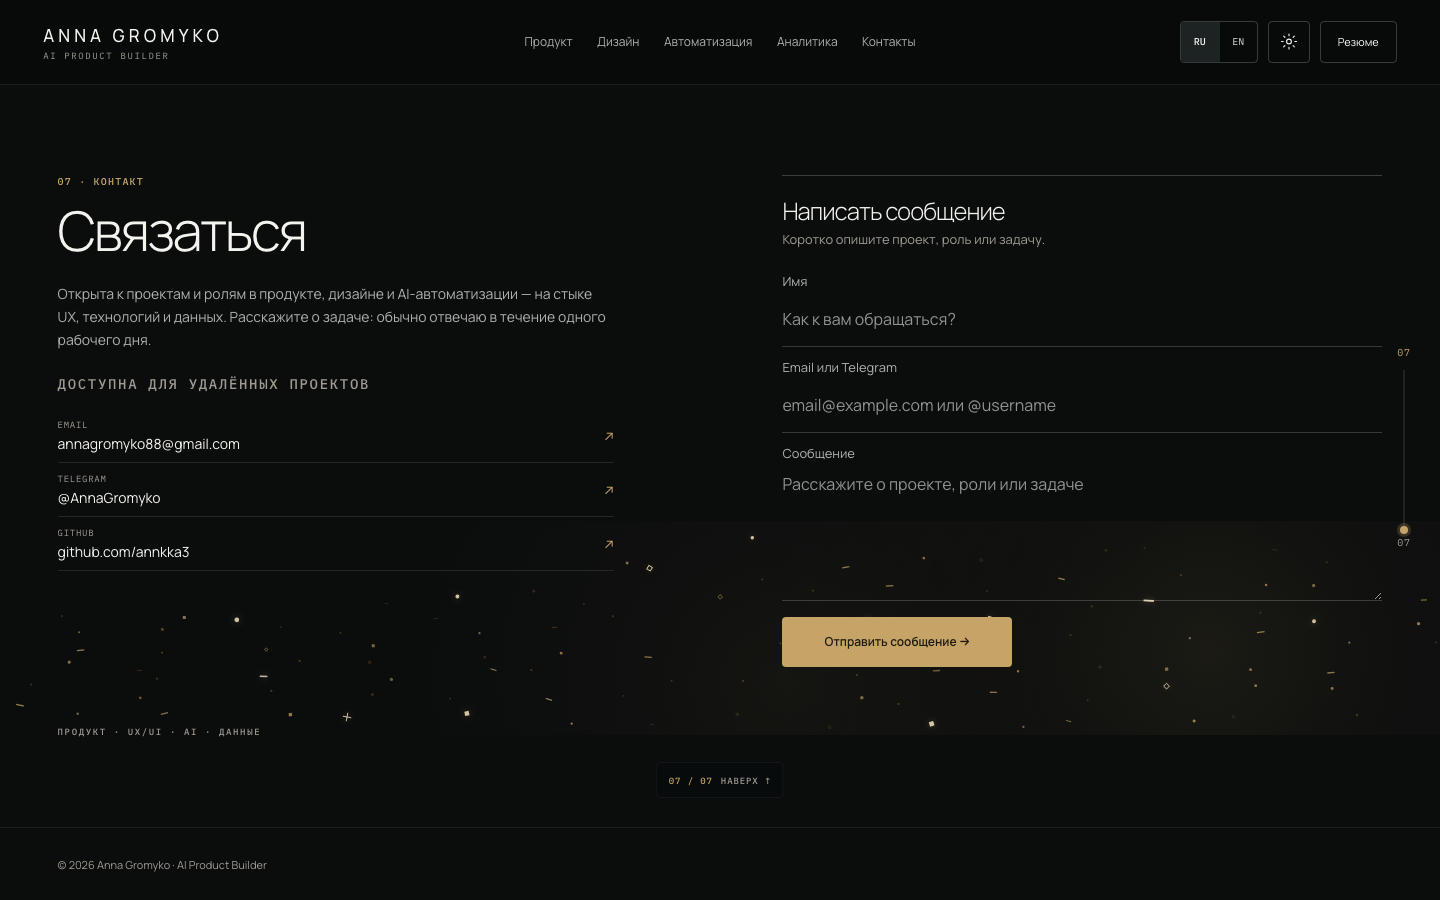
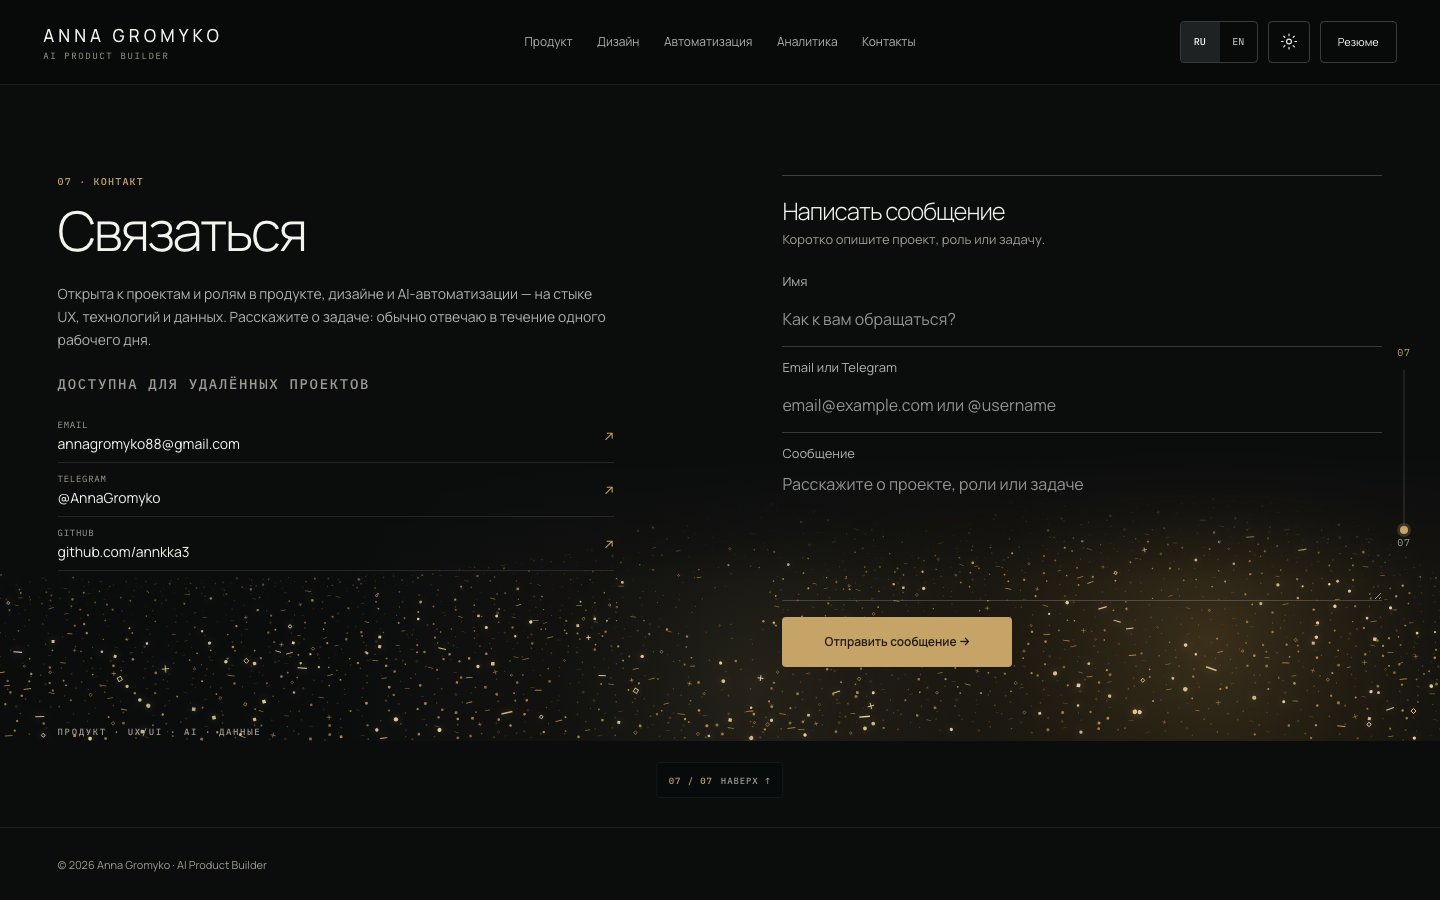
fix(contact): densify kinetic signal tide

Changed region(s): [[0.75, 0.6222, 0.9375, 0.84]]

diff --git a/src/sections/Contact/ContactSignalTideField.tsx b/src/sections/Contact/ContactSignalTideField.tsx
@@ -10,6 +10,7 @@ type TideParticle = {
   id: number
   anchorX: number
   anchorY: number
+  fade: number
   x: number
   y: number
   velocityX: number
@@ -30,50 +31,54 @@ const hash = (value: number) => {
 }
 
 function getParticleCount(viewportWidth: number, mobile: boolean) {
-  if (mobile || viewportWidth <= 767) return 28
-  if (viewportWidth <= 1279) return 58
-  if (viewportWidth >= 1680) return 110
-  return 108
+  if (mobile || viewportWidth <= 767) return 220
+  if (viewportWidth <= 1279) return 1300
+  if (viewportWidth >= 1680) return 3200
+  return 2800
 }
 
 function getShape(index: number): Shape {
   const slot = (index * 37) % 100
-  if (slot < 40) return 'dot'
-  if (slot < 65) return 'square'
-  if (slot < 87) return 'dash'
-  if (slot < 95) return 'diamond'
+  if (slot < 48) return 'dot'
+  if (slot < 72) return 'square'
+  if (slot < 88) return 'dash'
+  if (slot < 96) return 'diamond'
   return 'plus'
 }
 
 function createTide(width: number, height: number, viewportWidth: number, mobile: boolean) {
   const count = getParticleCount(viewportWidth, mobile)
-  const rowCount = mobile ? 4 : viewportWidth <= 1279 ? 6 : 7
+  const rowCount = mobile ? 12 : viewportWidth <= 1279 ? 22 : 34
   const columnCount = Math.ceil(count / rowCount)
   return Array.from({ length: count }, (_, index): TideParticle => {
     const row = index % rowCount
     const column = Math.floor(index / rowCount)
-    const distribution = (column + .18 + hash(index + 11) * .64) / columnCount
-    const normalizedX = .018 + Math.pow(distribution, .88) * .964
-    const centerRise = Math.exp(-Math.pow((normalizedX - .52) / .18, 2)) * .16
-    const rightRise = Math.exp(-Math.pow((normalizedX - .82) / .17, 2)) * .31
-    const rightFall = Math.exp(-Math.pow((normalizedX - 1) / .075, 2)) * .13
-    const topContour = Math.max(.045, .37 - centerRise - rightRise + rightFall)
+    const distribution = (column + .08 + hash(index + 11) * .84) / columnCount
+    const normalizedX = .004 + Math.pow(distribution, .92) * .992
+    const centerRise = Math.exp(-Math.pow((normalizedX - .54) / .2, 2)) * .13
+    const rightRise = Math.exp(-Math.pow((normalizedX - .83) / .18, 2)) * .28
+    const rightFall = Math.exp(-Math.pow((normalizedX - 1) / .08, 2)) * .12
+    const topContour = Math.max(.06, .46 - centerRise - rightRise + rightFall)
     const depthSample = hash(index + 29)
-    const depth: Depth = depthSample < .5 ? 'background' : depthSample < .88 ? 'middle' : 'foreground'
-    const vertical = (row + .18 + hash(index + 47) * .56) / rowCount
-    const rowWave = Math.sin(normalizedX * Math.PI * 2.2 + row * .58) * .022
+    const depth: Depth = depthSample < .58 ? 'background' : depthSample < .92 ? 'middle' : 'foreground'
+    const vertical = (row + .12 + hash(index + 47) * .7) / rowCount
+    const perspective = Math.pow(vertical, 1.34)
+    const rowWave = Math.sin(normalizedX * Math.PI * 2.35 + row * .38) * .014
     const anchorX = normalizedX * width
-    const anchorY = Math.min(.99, topContour + vertical * (.985 - topContour) + rowWave) * height
-    const size = depth === 'background' ? .76 + hash(index + 61) * .46
-      : depth === 'middle' ? 1.02 + hash(index + 67) * .68
-        : 1.58 + hash(index + 71) * .9
-    const opacity = depth === 'background' ? .24 + hash(index + 79) * .14
-      : depth === 'middle' ? .46 + hash(index + 83) * .22
-        : .78 + hash(index + 89) * .16
+    const anchorY = Math.min(.995, topContour + perspective * (.992 - topContour) + rowWave) * height
+    const topFade = Math.min(1, Math.max(0, (anchorY / height - topContour + .02) / .2))
+    const lowerWeight = .54 + Math.pow(vertical, .95) * .58
+    const size = (depth === 'background' ? .5 + hash(index + 61) * .44
+      : depth === 'middle' ? .82 + hash(index + 67) * .68
+        : 1.22 + hash(index + 71) * .98) * lowerWeight
+    const opacity = (depth === 'background' ? .3 + hash(index + 79) * .2
+      : depth === 'middle' ? .54 + hash(index + 83) * .28
+        : .78 + hash(index + 89) * .18) * (.2 + topFade * .8)
     return {
       id: index,
       anchorX,
       anchorY,
+      fade: topFade,
       x: anchorX,
       y: anchorY,
       velocityX: 0,
@@ -148,16 +153,16 @@ export function ContactSignalTideField({ activeField, signalState, mobile }: { a
     }
 
     const drawGlow = () => {
-      const center = context.createRadialGradient(width * .54, height * .76, 0, width * .54, height * .76, Math.min(380, width * .25))
-      center.addColorStop(0, 'rgba(212,179,110,.052)')
-      center.addColorStop(.48, 'rgba(155,121,66,.018)')
+      const center = context.createRadialGradient(width * .52, height * .82, 0, width * .52, height * .82, Math.min(420, width * .28))
+      center.addColorStop(0, 'rgba(212,179,110,.12)')
+      center.addColorStop(.48, 'rgba(155,121,66,.042)')
       center.addColorStop(1, 'rgba(155,121,66,0)')
       context.fillStyle = center
       context.fillRect(0, 0, width, height)
 
-      const outcome = context.createRadialGradient(width * .82, height * .6, 0, width * .82, height * .6, Math.min(450, width * .3))
-      outcome.addColorStop(0, 'rgba(212,179,110,.082)')
-      outcome.addColorStop(.46, 'rgba(155,121,66,.026)')
+      const outcome = context.createRadialGradient(width * .82, height * .68, 0, width * .82, height * .68, Math.min(520, width * .34))
+      outcome.addColorStop(0, 'rgba(226,171,74,.22)')
+      outcome.addColorStop(.44, 'rgba(171,120,44,.072)')
       outcome.addColorStop(1, 'rgba(155,121,66,0)')
       context.fillStyle = outcome
       context.fillRect(0, 0, width, height)
@@ -171,8 +176,9 @@ export function ContactSignalTideField({ activeField, signalState, mobile }: { a
       const pointerDistance = pointer.active ? Math.hypot(particle.x - pointer.x, particle.y - pointer.y) : Infinity
       const localWake = Math.max(0, 1 - pointerDistance / 170)
       const breath = reducedMotion ? 0 : Math.sin(time * .00072 * particle.speed + particle.phase) * .025
-      const alpha = Math.min(1, particle.opacity + breath + (ctaBoost ? .1 : 0) + (successBoost ? .08 : 0) + localWake * .035)
-      const color = particle.depth === 'foreground' ? '231,216,181' : particle.depth === 'middle' ? '212,179,110' : '155,121,66'
+      const edgeFade = Math.min(1, Math.max(0, (particle.y / height - .12) / .25))
+      const alpha = Math.min(1, (particle.opacity + breath + (ctaBoost ? .1 : 0) + (successBoost ? .08 : 0) + localWake * .035) * edgeFade)
+      const color = particle.depth === 'foreground' ? '241,215,158' : particle.depth === 'middle' ? '219,166,78' : '172,126,58'
       context.save()
       context.translate(particle.x, particle.y)
       context.rotate(particle.rotation)
@@ -181,20 +187,22 @@ export function ContactSignalTideField({ activeField, signalState, mobile }: { a
       context.strokeStyle = `rgb(${color})`
       context.lineWidth = particle.depth === 'foreground' ? .9 : .65
       if (particle.depth === 'foreground') {
-        context.shadowColor = 'rgba(212,179,110,.34)'
-        context.shadowBlur = 6
+        context.shadowColor = 'rgba(212,179,110,.42)'
+        context.shadowBlur = 7
       }
       if (particle.shape === 'dot') {
         context.beginPath()
         context.arc(0, 0, particle.size, 0, Math.PI * 2)
         context.fill()
       } else if (particle.shape === 'square') {
-        context.fillRect(-particle.size, -particle.size, particle.size * 2, particle.size * 2)
+        const side = particle.size * 1.72
+        context.fillRect(-side * .5, -side * .5, side, side)
       } else if (particle.shape === 'dash') {
-        context.fillRect(-particle.size * 2.3, -particle.size * .42, particle.size * 4.6, particle.size * .84)
+        context.fillRect(-particle.size * 2.6, -particle.size * .34, particle.size * 5.2, particle.size * .68)
       } else if (particle.shape === 'diamond') {
         context.rotate(Math.PI * .25)
-        context.strokeRect(-particle.size, -particle.size, particle.size * 2, particle.size * 2)
+        const side = particle.size * 1.84
+        context.strokeRect(-side * .5, -side * .5, side, side)
       } else {
         context.beginPath()
         context.moveTo(-particle.size * 1.8, 0)

diff --git a/src/styles/components.css b/src/styles/components.css
@@ -159,7 +159,7 @@
 .contact-section{border-top:1px solid var(--border-soft)}.contact-content{width:100%}.contact-grid{display:grid;grid-template-columns:5fr 6fr;gap:clamp(56px,7vw,112px);align-items:start}.contact-eyebrow{display:block;margin-bottom:14px;color:var(--gold);font:500 10px var(--font-mono);letter-spacing:.12em}.contact-display-heading{font-family:var(--font-display);font-weight:var(--display-weight);line-height:var(--display-line-height);letter-spacing:var(--display-tracking)}.contact-copy h2{margin-bottom:20px}.contact-copy>p:not(.contact-availability){max-width:620px;margin:0;color:var(--text-soft);font-size:15px;line-height:1.65}.contact-availability{margin:24px 0 0;color:var(--text-muted);font:500 9px var(--font-mono);letter-spacing:.12em}.contact-links{display:flex;flex-direction:column;margin-top:18px}.contact-links a{min-height:54px;padding:10px 0;border-bottom:1px solid var(--border);display:flex;align-items:center;justify-content:space-between;gap:20px;font-size:15px;transition:border-color 220ms,color 220ms}.contact-links a:hover,.contact-links a:focus-visible{border-color:var(--border-strong)}.contact-link-copy{min-width:0}.contact-links .contact-link-copy>span{display:block;margin-bottom:4px;color:var(--text-muted);font:400 9px var(--font-mono);letter-spacing:.08em}.contact-link-copy strong{display:block;overflow-wrap:anywhere;font-size:14px;font-weight:400}.contact-links i{flex:0 0 auto;color:var(--gold);font-style:normal;transform:translateX(0);transition:transform 220ms}.contact-links a:hover i,.contact-links a:focus-visible i{transform:translateX(4px)}.contact-form{position:relative;isolation:isolate;width:100%;max-width:640px;justify-self:end;padding:clamp(26px,3.5vw,46px);background:var(--form-panel);border:1px solid var(--border);border-radius:12px;box-shadow:var(--card-shadow)}.contact-form-body{position:relative;z-index:1}.contact-form h3{margin:0 0 7px;font-size:24px}.contact-form-body>p{margin:0 0 24px;color:var(--text-muted);font-size:13px}.contact-form-helper{display:block;margin-bottom:9px;color:var(--gold);font:500 9px/1 var(--font-mono);letter-spacing:.16em}.form-field{position:relative;margin-bottom:15px}.form-field label{display:block;margin-bottom:3px;color:var(--text-soft);font-size:13px}.form-field input,.form-field textarea{width:100%;min-height:54px;padding:10px 0;border:0;border-bottom:1px solid var(--input-border);border-radius:0;background:transparent;color:var(--text);font-size:16px;resize:vertical;transition:border-color 220ms ease,box-shadow 260ms ease}.form-field input:focus,.form-field textarea:focus{outline:none;border-color:var(--gold);box-shadow:0 1px 0 var(--gold),0 8px 18px -14px color-mix(in srgb,var(--gold) 58%,transparent)}.form-field input::placeholder,.form-field textarea::placeholder{color:var(--placeholder);opacity:1}.form-field small{display:block;margin-top:6px;color:#ee8a82;font-size:11px}.submit-button{position:relative;height:50px;min-width:230px;padding:0 24px;border:0;border-radius:4px;background:var(--gold);color:#211b12;font-size:12px;font-weight:600;transition:filter var(--duration-fast),background var(--duration-fast),transform 280ms var(--ease-premium),box-shadow 320ms ease}.submit-button:hover,.submit-button:focus-visible{filter:brightness(1.07);transform:translateY(-1px);box-shadow:0 10px 26px -14px color-mix(in srgb,var(--gold) 70%,transparent)}.submit-button:disabled{cursor:wait;filter:saturate(.35);opacity:.55;transform:none}.form-status{min-height:20px;margin:12px 0 0!important;font-size:12px!important}.form-status.error,.form-status.config{color:#ee8a82}.form-status.success{color:var(--teal)}.contact-closing{margin-top:clamp(22px,3vh,34px);color:var(--text-muted);font:500 9px var(--font-mono);letter-spacing:.18em}.honeypot{position:absolute;left:-10000px;width:1px;height:1px;overflow:hidden}
 .contact-grid{position:relative;isolation:isolate}
 .contact-grid>.contact-copy,.contact-grid>.contact-form{position:relative;z-index:1}
-.contact-signal-field{position:absolute;z-index:0;left:-3%;right:-3%;bottom:-7%;height:clamp(178px,29vh,214px);overflow:hidden;pointer-events:none;opacity:1;transition:opacity 360ms ease}
+.contact-signal-field{position:absolute;z-index:0;left:-3%;right:-3%;bottom:-8%;height:clamp(238px,34vh,318px);overflow:hidden;pointer-events:none;opacity:1;transition:opacity 360ms ease;mask-image:linear-gradient(180deg,transparent 0%,rgba(0,0,0,.04) 8%,rgba(0,0,0,.38) 24%,#000 48%);-webkit-mask-image:linear-gradient(180deg,transparent 0%,rgba(0,0,0,.04) 8%,rgba(0,0,0,.38) 24%,#000 48%)}
 .contact-tide-canvas{display:block;width:100%;height:100%}
 .contact-form>p{margin:0 0 24px;color:var(--text-muted);font-size:13px}
 .contact-grid:has(.contact-form[data-signal-state='submit-hover']) .contact-signal-field,.contact-grid:has(.contact-form[data-signal-state='loading']) .contact-signal-field{opacity:1}

diff --git a/e2e/portfolio.spec.ts b/e2e/portfolio.spec.ts
@@ -318,8 +318,8 @@ test('Contact kinetic signal tide stays below content, responds to pointer and p
   await expect(canvas).toBeVisible()
   await expect(field).toHaveAttribute('data-renderer', 'kinetic-signal-tide')
   await expect(canvas).toHaveAttribute('data-motion', 'physics')
-  expect(Number(await canvas.getAttribute('data-particle-count'))).toBeGreaterThanOrEqual(80)
-  expect(Number(await canvas.getAttribute('data-particle-count'))).toBeLessThanOrEqual(110)
+  expect(Number(await canvas.getAttribute('data-particle-count'))).toBeGreaterThanOrEqual(2700)
+  expect(Number(await canvas.getAttribute('data-particle-count'))).toBeLessThanOrEqual(2900)
   expect(await canvas.getAttribute('data-shapes')).toContain('dot:')
   expect(await canvas.getAttribute('data-shapes')).toContain('plus:')
   expect(await canvas.getAttribute('data-depths')).toContain('foreground:')
@@ -330,7 +330,7 @@ test('Contact kinetic signal tide stays below content, responds to pointer and p
     return {
       left: fieldBounds.left <= gridBounds.left,
       right: fieldBounds.right >= gridBounds.right,
-      lowerBand: fieldBounds.top > gridBounds.top + gridBounds.height * .55,
+      lowerBand: fieldBounds.top > gridBounds.top + gridBounds.height * .42,
       bottom: fieldBounds.bottom >= gridBounds.bottom - 50,
       height: fieldBounds.height,
       pointerEvents: getComputedStyle(element.querySelector<HTMLElement>('.contact-signal-field')!).pointerEvents,
@@ -340,8 +340,8 @@ test('Contact kinetic signal tide stays below content, responds to pointer and p
   expect(coverage.right).toBe(true)
   expect(coverage.lowerBand).toBe(true)
   expect(coverage.bottom).toBe(true)
-  expect(coverage.height).toBeGreaterThanOrEqual(170)
-  expect(coverage.height).toBeLessThanOrEqual(220)
+  expect(coverage.height).toBeGreaterThanOrEqual(230)
+  expect(coverage.height).toBeLessThanOrEqual(330)
   expect(coverage.pointerEvents).toBe('none')
   const bounds = await field.boundingBox()
   expect(bounds).not.toBeNull()
@@ -371,9 +371,9 @@ test('Contact kinetic signal tide uses a simplified mobile composition and does 
   const grid = page.locator('.mobile-contact-chapter .contact-grid')
   const canvas = grid.locator('.contact-tide-canvas')
   await expect(canvas).toBeVisible()
-  await expect(canvas).toHaveAttribute('data-particle-count', '28')
-  expect(Number(await canvas.getAttribute('data-field-height'))).toBeGreaterThanOrEqual(90)
-  expect(Number(await canvas.getAttribute('data-field-height'))).toBeLessThanOrEqual(130)
+  await expect(canvas).toHaveAttribute('data-particle-count', '220')
+  expect(Number(await canvas.getAttribute('data-field-height'))).toBeGreaterThanOrEqual(130)
+  expect(Number(await canvas.getAttribute('data-field-height'))).toBeLessThanOrEqual(170)
   await expect(canvas).toHaveAttribute('data-pointer-active', 'false')
   await expect(grid.locator('.contact-signal-field')).toHaveCSS('pointer-events', 'none')
   const contact = form.getByLabel('Email или Telegram')

diff --git a/src/styles/responsive.css b/src/styles/responsive.css
@@ -5,7 +5,7 @@
   .header-inner{grid-template-columns:1fr auto}.main-nav{display:none}.hero-layout{gap:22px}.hero-section h1{max-width:900px;font-size:clamp(46px,5.4vw,58px)}.hero-visual{height:min(45svh,470px)}.hero-panel-copy{left:16px;right:12px;bottom:20px}.hero-panel-copy strong{font-size:15px}.hero-panel-copy>span:nth-last-child(2){font-size:10px}.hero-cta{padding-inline:10px}.process-grid{gap:42px 30px}.process-step i{display:none}.scene-footer{bottom:20px}
 }
 @media (max-width: 1180px) {
-  .scene-navigation{right:14px}.contact-signal-field{height:clamp(138px,22vh,168px)}
+  .scene-navigation{right:14px}.contact-signal-field{height:clamp(180px,28vh,238px)}
 }
 @media (max-width: 900px) {
   .scene-navigation{display:none}.scene-footer{bottom:12px;gap:10px;min-height:44px;padding-inline:10px;font-size:8px;letter-spacing:.12em}.scene-footer.is-final{bottom:106px}.home-scene{height:auto;min-height:100svh;overflow:visible}.hero-scene{min-height:100svh}.home-scene:not(.hero-scene){padding-top:var(--header-height)}.home-scene:not(.hero-scene):not(.contact-scene)>.section,.contact-scene>.contact-section{height:auto;min-height:calc(100svh - var(--header-height));overflow:visible}.contact-scene{display:block}.contact-scene .contact-grid{grid-template-columns:1fr;gap:54px}.contact-scene .contact-form{max-width:none;justify-self:stretch}.contact-closing{margin-top:34px}
@@ -240,7 +240,7 @@
   .mobile-contact-chapter .mobile-chapter-content{padding:0}
   .mobile-contact-chapter .contact-section{min-height:0;padding:var(--mobile-section-top) 0 22px;border-top:0}
   .mobile-contact-chapter .contact-grid{padding-inline:var(--mobile-page-x);display:block}
-  .mobile-contact-chapter .contact-signal-field{left:0;right:0;bottom:-10px;height:118px}
+  .mobile-contact-chapter .contact-signal-field{left:0;right:0;bottom:-10px;height:150px}
   .mobile-contact-chapter .contact-copy h2{margin:0 0 12px;font-size:clamp(38px,10vw,48px);font-weight:300;line-height:1;letter-spacing:-.04em}
   .mobile-contact-chapter .contact-copy>p:not(.contact-availability){font-size:14px;line-height:1.42}
   .mobile-contact-chapter .contact-availability{margin-top:12px;line-height:1.4}
